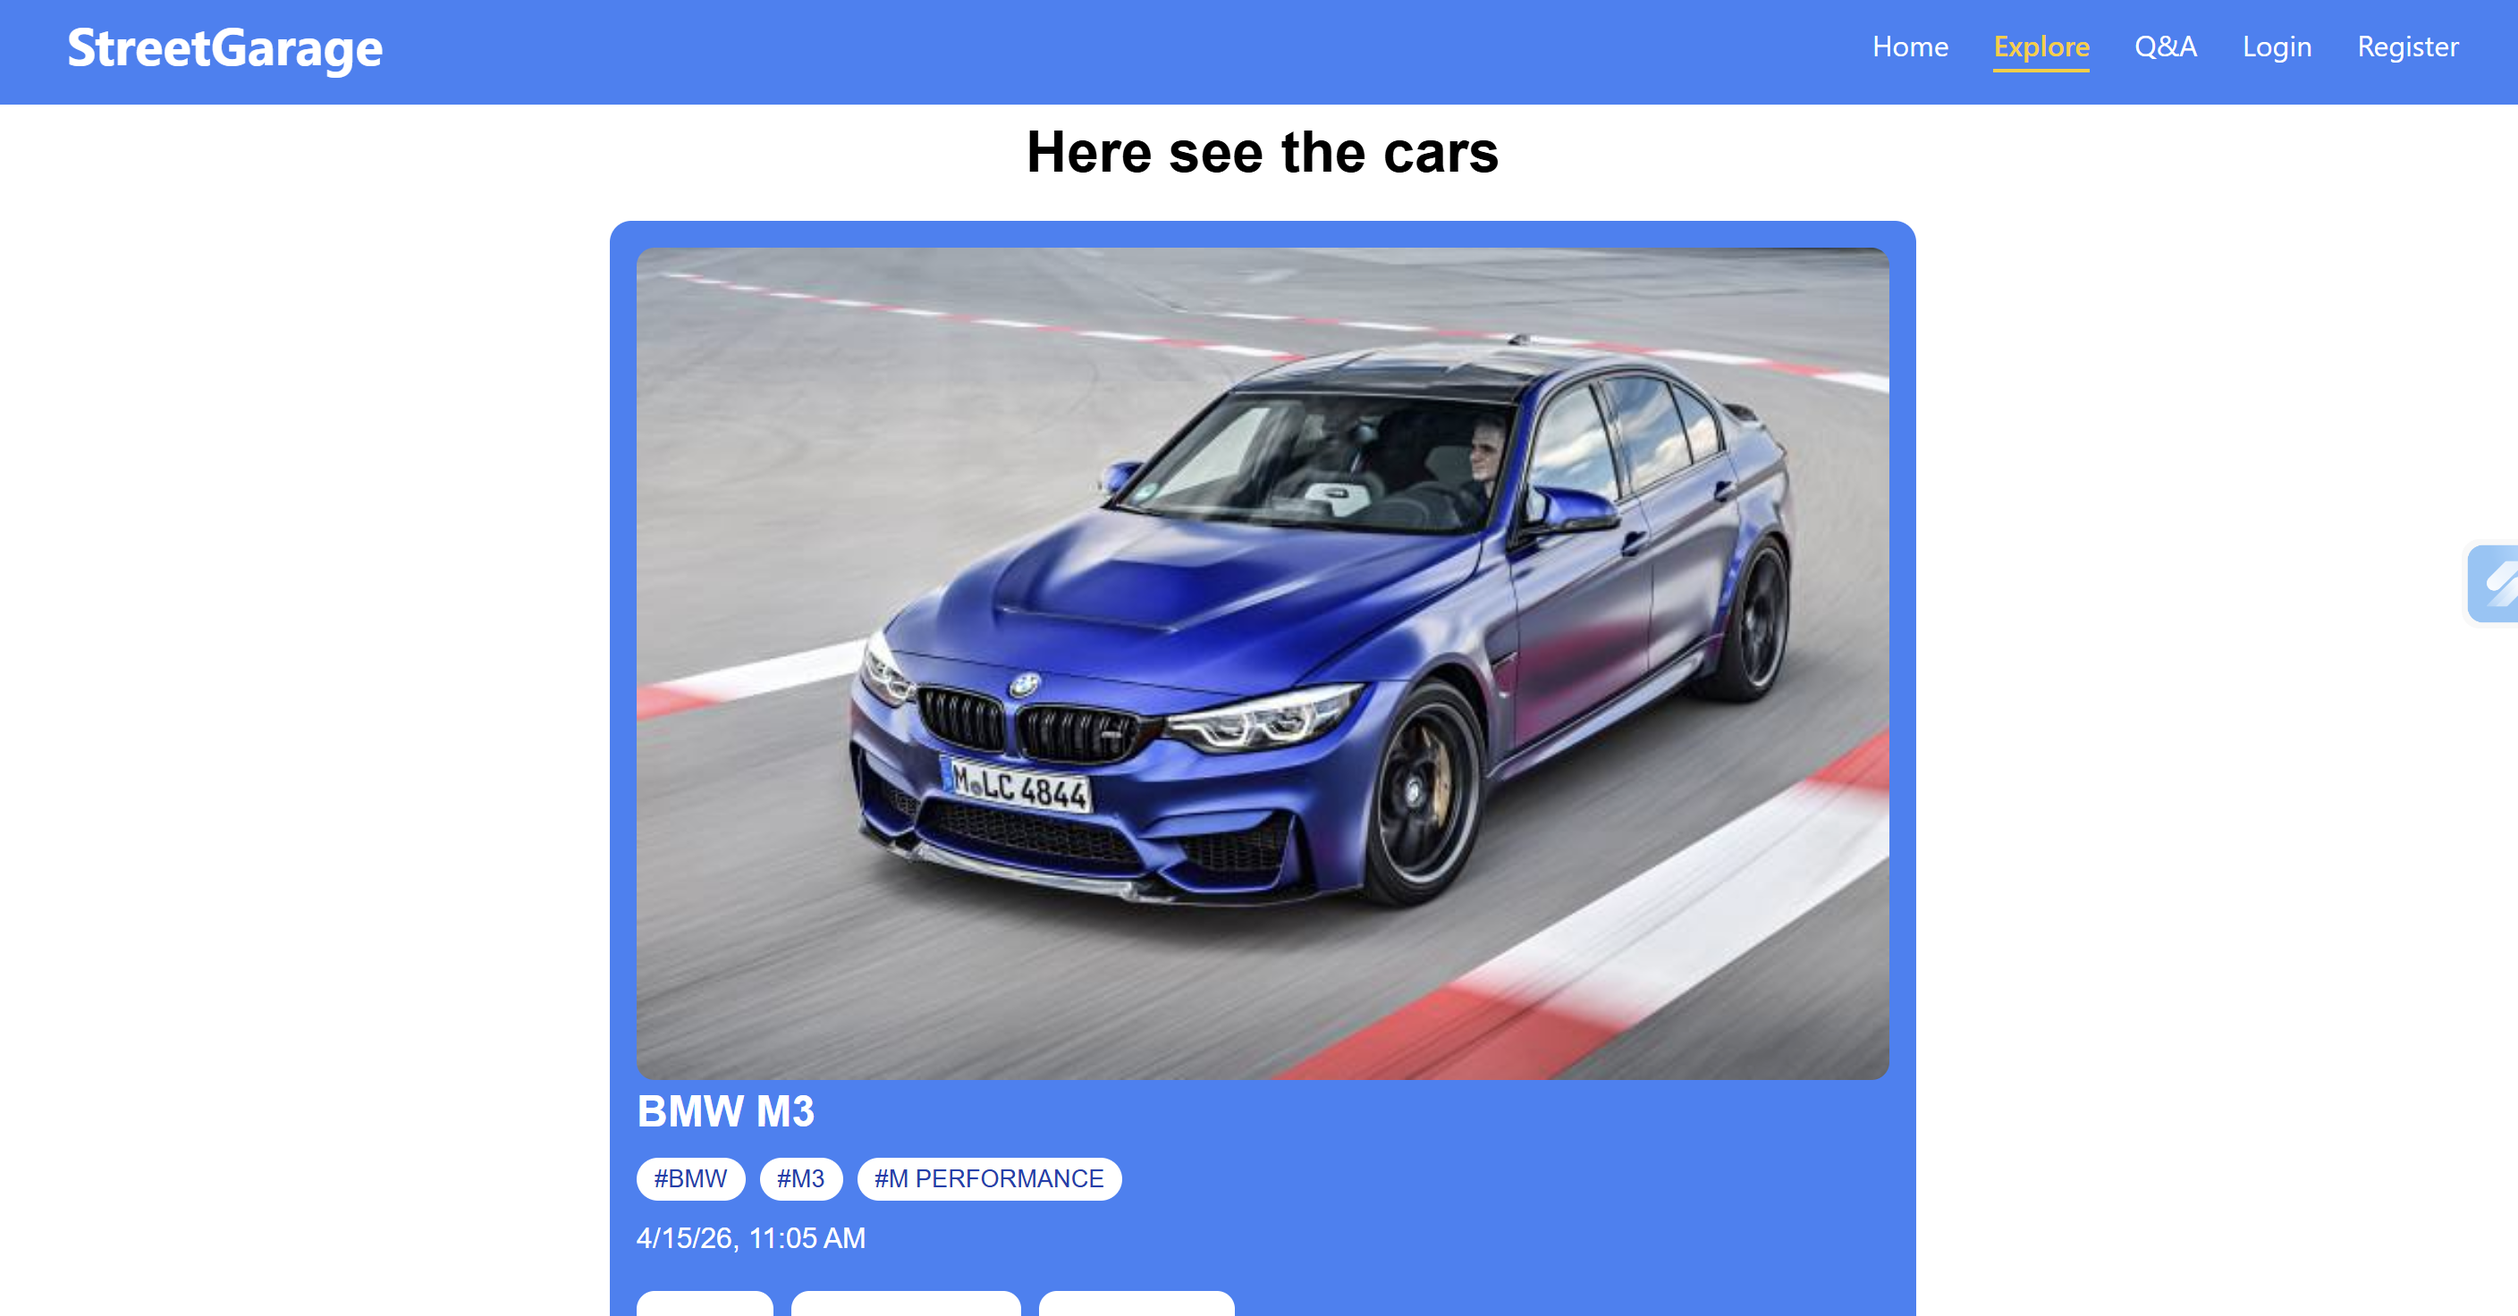
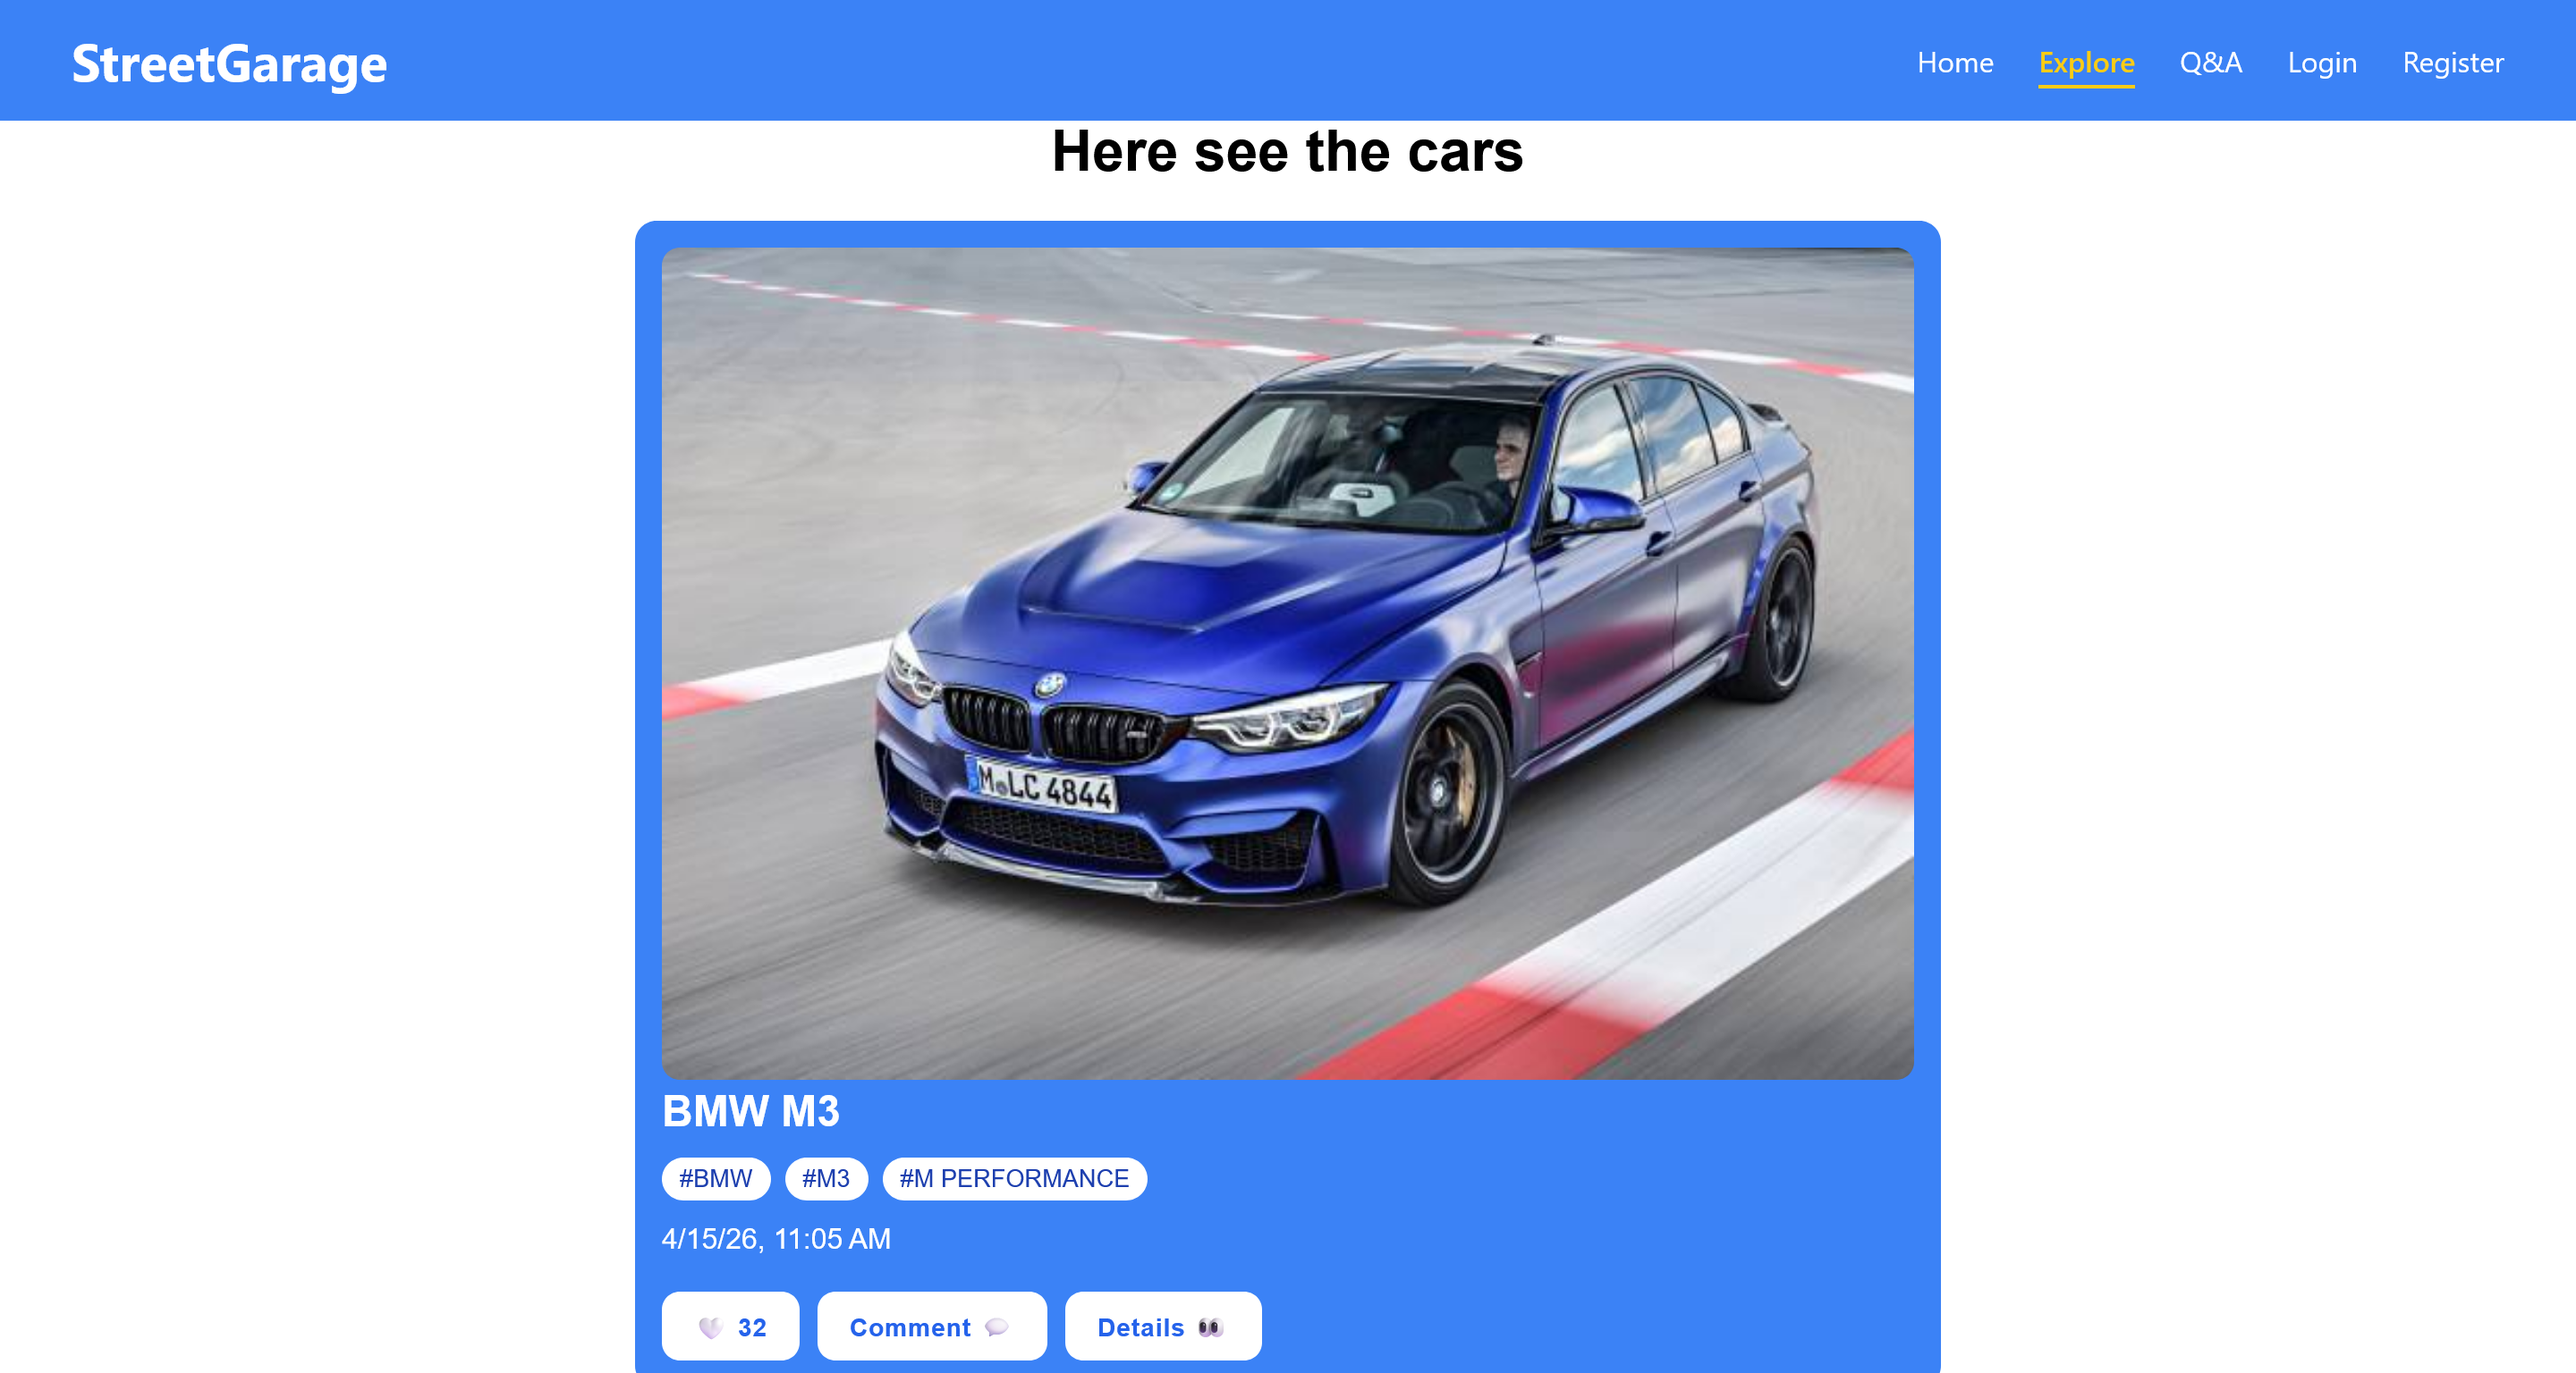
Better img for the new project.

Changed region(s): [[0.0, 0.0, 1.0, 1.0], [0.9688, 0.4062, 1.0, 0.4688]]

diff --git a/portfolio/TO-DO.md b/portfolio/TO-DO.md
@@ -22,5 +22,6 @@
 - [x] Pick the best favicon
 - [x] Add Socials on about page
 - [x] Add the new project
-- [ ] Better img for the new project
+- [x] Better img for the new project
 - [ ] Add Projects details page
+- [ ] Add Reviews page?
